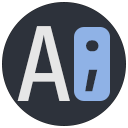
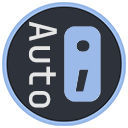
Update to 1.5.0

diff --git a/README.md b/README.md
@@ -4,27 +4,36 @@
 [![release](https://img.shields.io/github/release/myaaghubi/Auto-Semicolon-VSCode.svg?style=for-the-badge&logo=github&logoColor=white&colorA=2b303b&colorB=00e8c6)](https://github.com/myaaghubi/Auto-Semicolon-VSCode/releases/latest)
 [![rating](https://img.shields.io/visual-studio-marketplace/stars/myaaghubi.auto-semicolon-vscode?style=for-the-badge&logo=reverbnation&logoColor=white&colorA=2b303b&colorB=FFE66D)](https://marketplace.visualstudio.com/items?itemName=myaaghubi.auto-semicolon-vscode)
 
-**You no longer need to move to the end of lines to put the semicolon `;`**
+This extension helps by moving to the end of the line `and/or` putting `;` in the right place. 
 
-This extension helps by moving to the end of the line and putting `;` in the right place. It's `auto`, `smart`, `handy`, and `customizable` if you find joy in it don't forget to 'donate'.
+Both `Semicolon separated` and `Non-Semicolon separated` programming languages are supported.
+It's **`auto`**, **`smart`**, **`handy`**, and **`customizable`** if you find joy in it don't forget to [🍔 donate](#-donate).
+
+I found nothing for `PHP` so made my own, now it's the `best` for this use.
 
 ## How To Use
-1. Install it from [market place](https://marketplace.visualstudio.com/items?itemName=myaaghubi.auto-semicolon-vscode).
+1. Install it from [market place > auto semicolon](https://marketplace.visualstudio.com/items?itemName=myaaghubi.auto-semicolon-vscode).
 2. Use `;` just like before.
 
-- To put `;` right in place (not auto) use `alt + ;` then `;` or use command palette `ctrl+shift+p` > `Auto Semicolon > Insert At The Position`.
-- To avoid putting `;` inside the enclosing curly bracket pair, press `;` twice while you pressed `alt` or use `ctrl+shift+p` > `Auto Semicolon > Auto Insert At The End`.
+
+## Shortcuts
+- `alt + ;` then `;` > To put `;` right in place (not auto).
+
+    Or use command palette `ctrl+shift+p` > `Auto Semicolon > Insert At The Position`.
+- `alt` + twice `;` > To ignore enclosing curly bracket pair `{..}` (force move to the end of the line)
+
+    Or use `ctrl+shift+p` > `Auto Semicolon > Auto Insert At The End`.
 
 ## Notes
 - `Multiple cursors` has been supported.
-- `PHP`, `javascript`, `typescript`, `c#`, `c/c++`, `java`, `perl`, `dart`, etc. feel free to ask support for your programming language!
+- `PHP`, `javascript`, `typescript`, `c#`, `c/c++`, `java`, `perl`, `dart`, `swift`, even `python`, `go`, `bash`, `scala`, `kotlin`, `r` supported, feel free to ask support for your programming language!
 
-## Shots
-![Shot Auto-Semicolon-VSCode](https://github.com/myaaghubi/Auto-Semicolon-VSCode/raw/main/assets/auto-semicolon1.gif)
+## Preview
+![Shot Auto-Semicolon-VSCode](assets/auto-semicolon1.gif)
 
-![Shot Auto-Semicolon-VSCode](https://github.com/myaaghubi/Auto-Semicolon-VSCode/raw/main/assets/auto-semicolon2.gif)
+![Shot Auto-Semicolon-VSCode](assets/auto-semicolon2.gif)
 
-![Shot Auto-Semicolon-VSCode](https://github.com/myaaghubi/Auto-Semicolon-VSCode/raw/main/assets/auto-semicolon3.gif)
+![Shot Auto-Semicolon-VSCode](assets/auto-semicolon3.gif)
 
 ## 🍔 Donate
 Don't forget to donate if you enjoyed it ☕ 🍺 🍸 🍔

diff --git a/CHANGELOG.md b/CHANGELOG.md
@@ -1,5 +1,12 @@
 # Change Log
 
+## 1.5.0
+
+- Added 2 new options in the settings
+- Fixed a bug with `for(;;)`
+- Some fixes & changes
+- Icon changed
+
 ## 1.3.0
 
 - Added some custom settings
